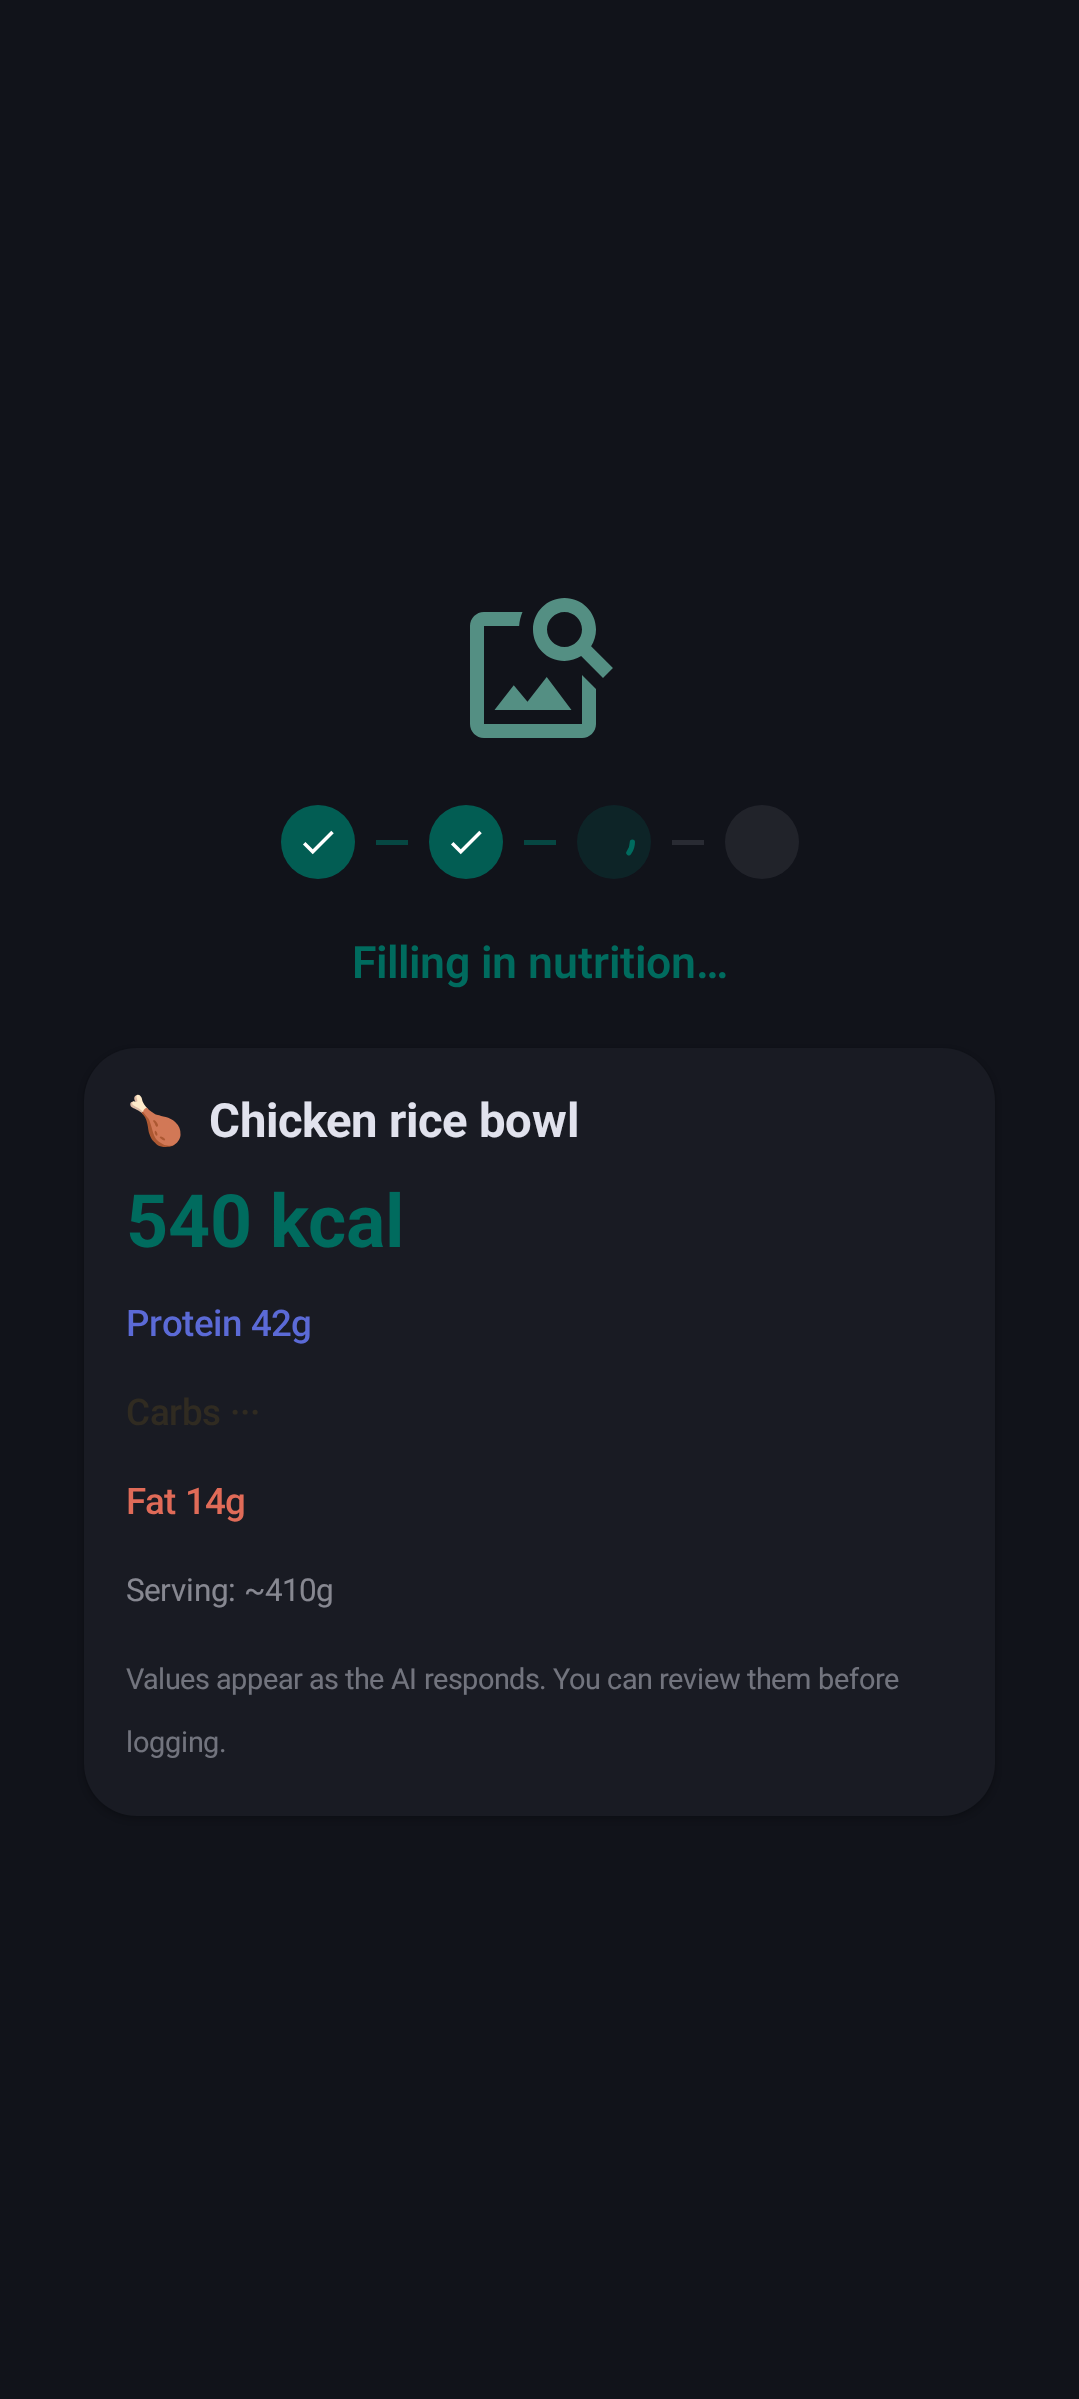
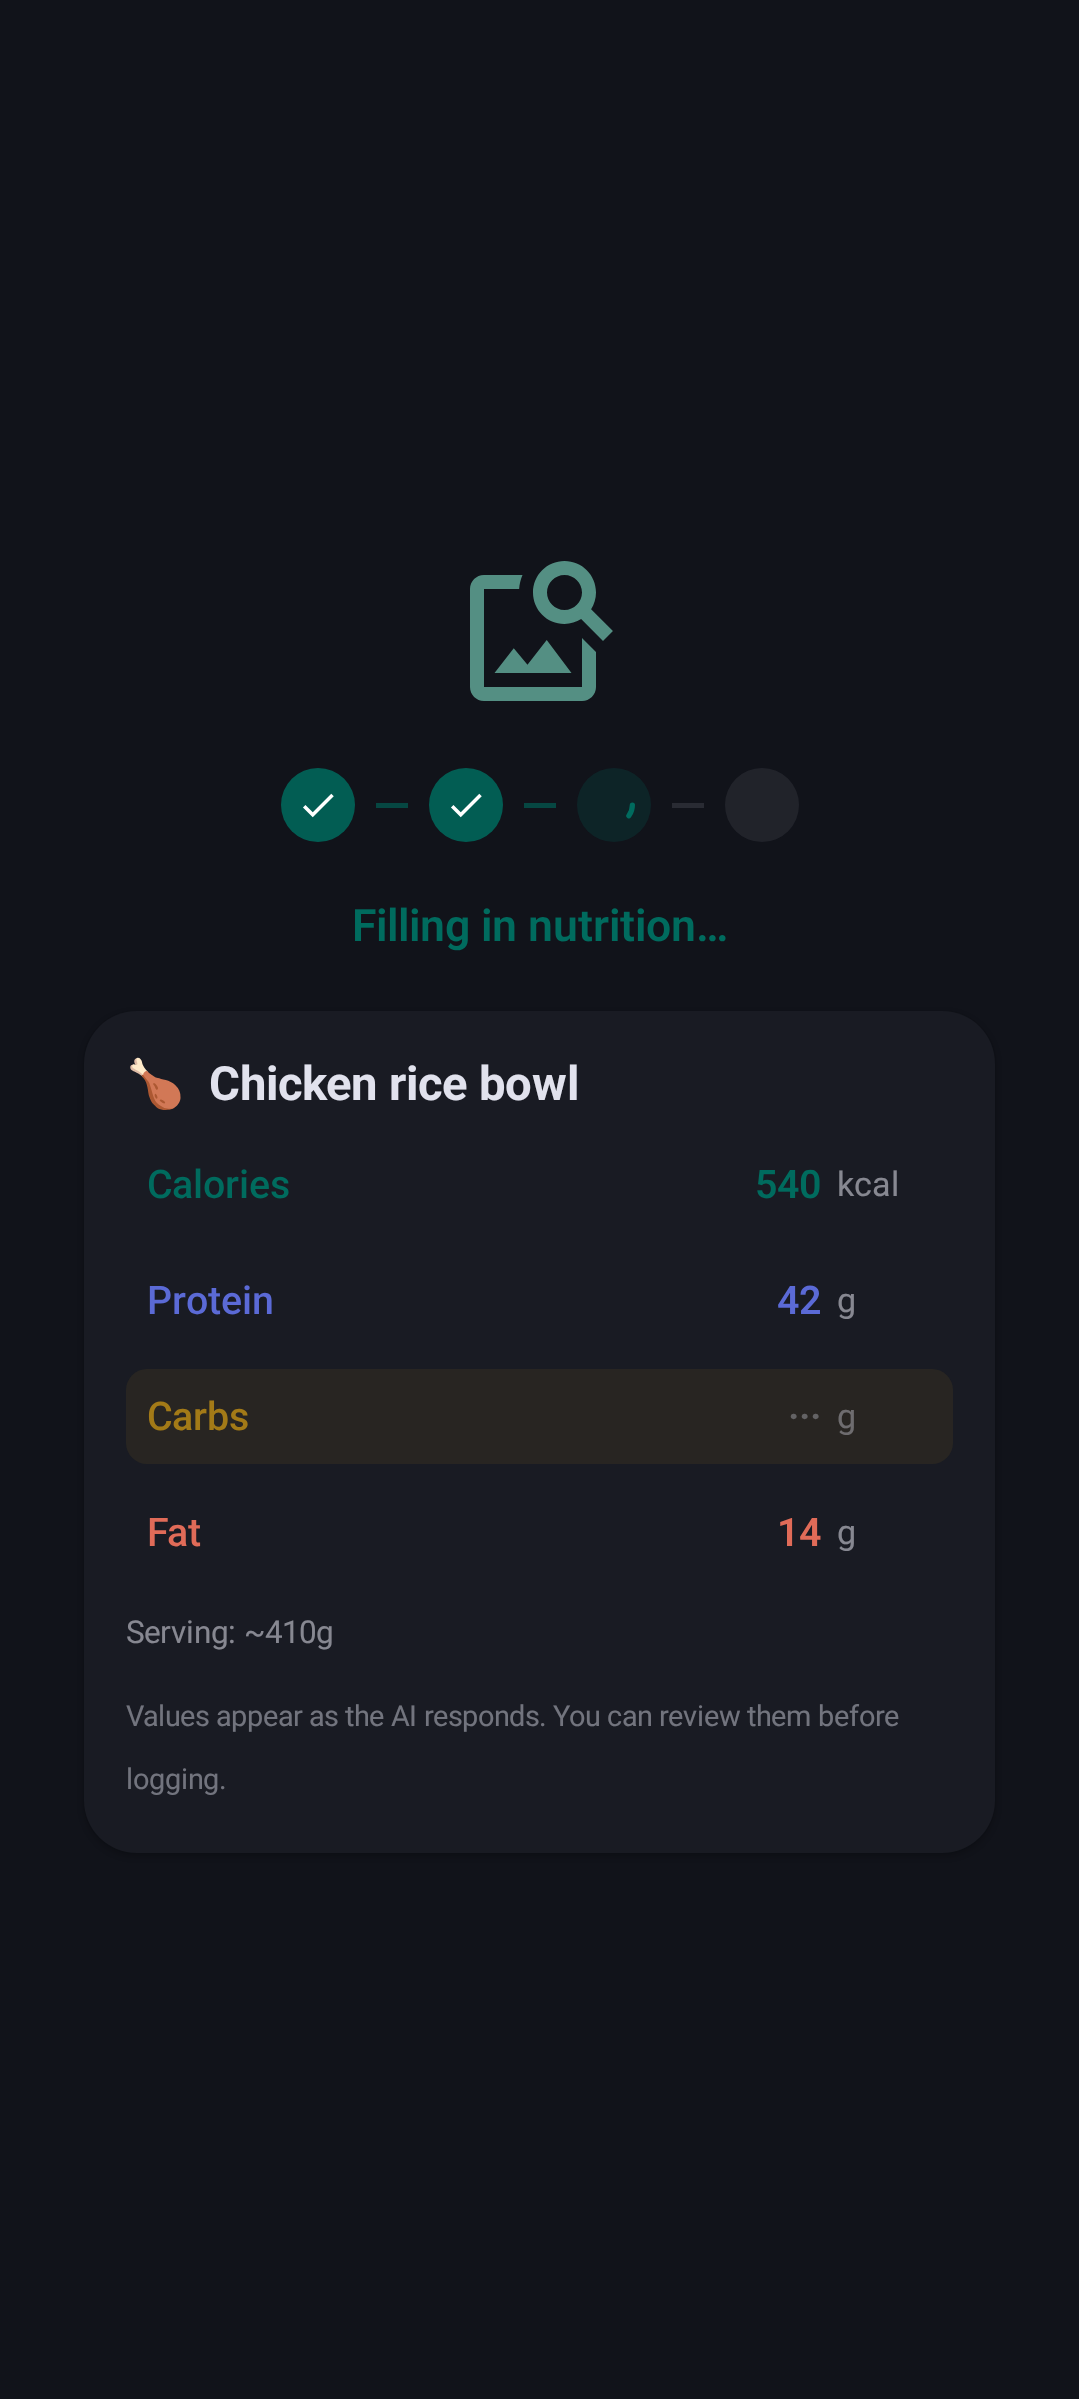
Theme ingredient macros and clarify AI stream fill-in.
Color kcal/P/C/F in the constituents editor with shared AppColors, and restyle the progressive analysis card as readable nutrition rows without double-alpha pending fades.

diff --git a/android/app/src/main/java/app/chompass/ui/home/HomeDialogs.kt b/android/app/src/main/java/app/chompass/ui/home/HomeDialogs.kt
@@ -239,46 +239,46 @@ internal fun ProgressiveAnalysisCard(
     animate: Boolean = true,
 ) {
     FudGlassSurface(modifier = Modifier.fillMaxWidth(), cornerRadius = 20.dp, padding = 16.dp) {
-        Column(verticalArrangement = Arrangement.spacedBy(10.dp)) {
+        Column(verticalArrangement = Arrangement.spacedBy(8.dp)) {
+            val nameFilled = partial.name != null
             val nameAlpha by animateFloatAsState(
-                targetValue = if (partial.name != null) 1f else 0.35f,
+                targetValue = if (nameFilled) 1f else 0.7f,
                 animationSpec = spring(stiffness = if (animate) Spring.StiffnessMediumLow else Spring.StiffnessHigh),
                 label = "nameAlpha",
             )
             Text(
-                "${partial.emoji ?: "🍽"}  ${partial.name ?: "····"}",
+                text = "${partial.emoji ?: "🍽"}  ${partial.name ?: "····"}",
                 fontSize = 18.sp,
                 fontWeight = FontWeight.Bold,
-                color = MaterialTheme.colorScheme.onSurface.copy(alpha = nameAlpha),
+                color = MaterialTheme.colorScheme.onSurface,
                 modifier = Modifier.graphicsLayer { alpha = nameAlpha },
             )
-            val calAlpha by animateFloatAsState(
-                targetValue = if (partial.calories != null) 1f else 0.35f,
-                animationSpec = spring(stiffness = if (animate) Spring.StiffnessMediumLow else Spring.StiffnessHigh),
-                label = "calAlpha",
+            ProgressiveNutritionRow(
+                label = stringResource(R.string.nutrition_label_calories),
+                displayValue = partial.calories?.toString(),
+                unit = stringResource(R.string.unit_kcal),
+                accentColor = AppColors.Calorie,
+                animate = animate,
             )
-            Text(
-                partial.calories?.let { "$it kcal" } ?: "··· kcal",
-                fontSize = 28.sp,
-                fontWeight = FontWeight.Bold,
-                color = AppColors.Calorie.copy(alpha = calAlpha),
-            )
-            ProgressiveMacroLine(
+            ProgressiveNutritionRow(
                 label = stringResource(R.string.nutrition_label_protein),
-                value = partial.protein,
-                color = AppColors.Protein,
+                displayValue = partial.protein?.let { MacroValueFormatter.string(it) },
+                unit = stringResource(R.string.unit_g),
+                accentColor = AppColors.Protein,
                 animate = animate,
             )
-            ProgressiveMacroLine(
+            ProgressiveNutritionRow(
                 label = stringResource(R.string.nutrition_label_carbs),
-                value = partial.carbs,
-                color = AppColors.Carbs,
+                displayValue = partial.carbs?.let { MacroValueFormatter.string(it) },
+                unit = stringResource(R.string.unit_g),
+                accentColor = AppColors.Carbs,
                 animate = animate,
             )
-            ProgressiveMacroLine(
+            ProgressiveNutritionRow(
                 label = stringResource(R.string.nutrition_label_fat),
-                value = partial.fat,
-                color = AppColors.Fat,
+                displayValue = partial.fat?.let { MacroValueFormatter.string(it) },
+                unit = stringResource(R.string.unit_g),
+                accentColor = AppColors.Fat,
                 animate = animate,
             )
             Text(
@@ -287,7 +287,7 @@ internal fun ProgressiveAnalysisCard(
                 } ?: stringResource(R.string.entry_analysis_field_pending),
                 fontSize = 12.sp,
                 color = MaterialTheme.colorScheme.onSurface.copy(
-                    alpha = if (partial.servingSizeGrams != null) 0.55f else 0.28f
+                    alpha = if (partial.servingSizeGrams != null) 0.55f else 0.4f
                 ),
             )
             if (partial.micronutrientCount > 0) {
@@ -316,28 +316,57 @@ internal fun ProgressiveAnalysisCard(
 }
 
 @Composable
-private fun ProgressiveMacroLine(
+private fun ProgressiveNutritionRow(
     label: String,
-    value: Double?,
-    color: Color,
+    displayValue: String?,
+    unit: String,
+    accentColor: Color,
     animate: Boolean,
 ) {
-    val alpha by animateFloatAsState(
-        targetValue = if (value != null) 1f else 0.35f,
+    val filled = displayValue != null
+    val rowAlpha by animateFloatAsState(
+        targetValue = if (filled) 1f else 0.7f,
         animationSpec = spring(stiffness = if (animate) Spring.StiffnessMediumLow else Spring.StiffnessHigh),
-        label = "macroAlpha-$label",
+        label = "nutritionRowAlpha-$label",
     )
-    Text(
-        text = if (value != null) {
-            "$label ${MacroValueFormatter.withUnit(value)}"
-        } else {
-            "$label ···"
-        },
-        fontSize = 14.sp,
-        fontWeight = FontWeight.Medium,
-        color = color.copy(alpha = alpha),
-        modifier = Modifier.graphicsLayer { this.alpha = alpha },
-    )
+    val pendingWash = accentColor.copy(alpha = 0.08f)
+    Row(
+        modifier = Modifier
+            .fillMaxWidth()
+            .then(
+                if (!filled) {
+                    Modifier
+                        .clip(RoundedCornerShape(8.dp))
+                        .background(pendingWash)
+                        .padding(horizontal = 8.dp, vertical = 6.dp)
+                } else {
+                    Modifier.padding(horizontal = 8.dp, vertical = 6.dp)
+                },
+            )
+            .graphicsLayer { alpha = rowAlpha },
+        verticalAlignment = Alignment.CenterVertically,
+    ) {
+        Text(
+            text = label,
+            fontSize = 15.sp,
+            fontWeight = FontWeight.Medium,
+            color = accentColor,
+            modifier = Modifier.weight(1f),
+        )
+        Text(
+            text = displayValue ?: "···",
+            fontSize = 15.sp,
+            fontWeight = FontWeight.SemiBold,
+            color = if (filled) accentColor else MaterialTheme.colorScheme.onSurfaceVariant.copy(alpha = 0.55f),
+        )
+        Spacer(modifier = Modifier.width(6.dp))
+        Text(
+            text = unit,
+            fontSize = 13.sp,
+            color = MaterialTheme.colorScheme.onSurface.copy(alpha = 0.55f),
+            modifier = Modifier.width(36.dp),
+        )
+    }
 }
 
 @Composable

diff --git a/android/app/src/main/java/app/chompass/ui/home/ConstituentsSection.kt b/android/app/src/main/java/app/chompass/ui/home/ConstituentsSection.kt
@@ -26,7 +26,10 @@ import androidx.compose.runtime.setValue
 import androidx.compose.ui.Alignment
 import androidx.compose.ui.Modifier
 import androidx.compose.ui.res.stringResource
+import androidx.compose.ui.text.SpanStyle
+import androidx.compose.ui.text.buildAnnotatedString
 import androidx.compose.ui.text.font.FontWeight
+import androidx.compose.ui.text.withStyle
 import androidx.compose.ui.unit.dp
 import androidx.compose.ui.unit.sp
 import app.chompass.R
@@ -34,6 +37,8 @@ import app.chompass.models.FoodConstituent
 import app.chompass.models.MacroValueFormatter
 import app.chompass.models.ServingUnitOption
 import app.chompass.services.ai.ConstituentReconcile
+import app.chompass.ui.theme.AppColors
+import app.chompass.ui.theme.MacroKind
 import kotlin.math.roundToInt
 
 /**
@@ -184,16 +189,27 @@ private fun ConstituentRowCard(
                 onMenuExpandedChange = { unitMenuExpanded = it },
                 gramUnit = stringResource(R.string.unit_g),
             )
+            val kcalUnit = stringResource(R.string.unit_kcal)
+            val separatorColor = MaterialTheme.colorScheme.onSurfaceVariant
             Text(
-                text = stringResource(
-                    R.string.sheet_constituents_macros_format,
-                    row.calories,
-                    MacroValueFormatter.string(row.protein),
-                    MacroValueFormatter.string(row.carbs),
-                    MacroValueFormatter.string(row.fat),
-                ),
+                text = buildAnnotatedString {
+                    withStyle(SpanStyle(color = AppColors.Calorie, fontWeight = FontWeight.Medium)) {
+                        append("${row.calories} $kcalUnit")
+                    }
+                    withStyle(SpanStyle(color = separatorColor)) { append(" · ") }
+                    withStyle(SpanStyle(color = MacroKind.PROTEIN.color(), fontWeight = FontWeight.Medium)) {
+                        append("${MacroKind.PROTEIN.glyph} ${MacroValueFormatter.string(row.protein)}")
+                    }
+                    withStyle(SpanStyle(color = separatorColor)) { append(" · ") }
+                    withStyle(SpanStyle(color = MacroKind.CARBS.color(), fontWeight = FontWeight.Medium)) {
+                        append("${MacroKind.CARBS.glyph} ${MacroValueFormatter.string(row.carbs)}")
+                    }
+                    withStyle(SpanStyle(color = separatorColor)) { append(" · ") }
+                    withStyle(SpanStyle(color = MacroKind.FAT.color(), fontWeight = FontWeight.Medium)) {
+                        append("${MacroKind.FAT.glyph} ${MacroValueFormatter.string(row.fat)}")
+                    }
+                },
                 style = MaterialTheme.typography.bodySmall,
-                color = MaterialTheme.colorScheme.onSurfaceVariant,
             )
         }
     }
